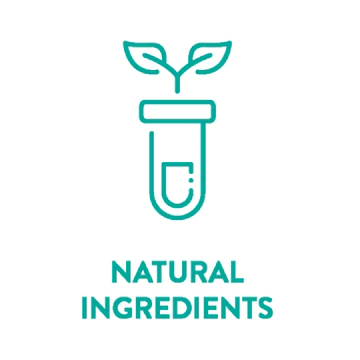
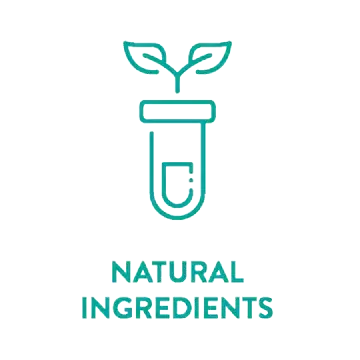
pics optmized

Changed region(s): [[0.3361, 0.0917, 0.6417, 0.6111], [0.2139, 0.825, 0.7639, 0.8861], [0.3056, 0.7028, 0.6722, 0.7944]]

diff --git a/napure-me/src/app/components/pages/about/about.component.html b/napure-me/src/app/components/pages/about/about.component.html
@@ -10,7 +10,7 @@
         <div class="grid-row__half-section">
             <img
                 class="woman-about"
-                src="../../../../assets/images/tanned-woman-without-makeup-posing-among-tropical-plants-with-huge-leaves.jpg"
+                src="../../../../assets/images/woman-with-beautiful-hair.webp"
                 alt="woman in trees representing use of nature ingredients for Napura hair products"
             />
         </div>
@@ -19,19 +19,19 @@
                 <h2 class="about__title heading">we are staninding for:</h2>
                 <div class="standing-images">
                     <img
-                        src="../../../../assets/images/nature-ingridients.png"
+                        src="../../../../assets/images/nature-ingridients.webp"
                         alt="Napura hair care products in Montenegro nature ingredients image"
                     />
                     <img
-                        src="../../../../assets/images/sls.png"
+                        src="../../../../assets/images/sls.webp"
                         alt="Napura hair care products in Montenegro sls free image"
                     />
                     <img
-                        src="../../../../assets/images/quality-certified.png"
+                        src="../../../../assets/images/quality-certified.webp"
                         alt="Napura hair care products in Montenegro quality certified image"
                     />
                     <img
-                        src="../../../../assets/images/made-in-italy-logo.png"
+                        src="../../../../assets/images/made-in-italy-logo.webp"
                         alt="Napura hair care products in Montenegro made in italy image"
                     />
                 </div>
@@ -55,7 +55,7 @@
                         />
                     </div>
                     <img
-                        src="../../../../assets/images/cert_1.png"
+                        src="../../../../assets/images/cert_1.webp"
                         alt="Napura hair care products in Montenegro certificate mini image"
                     />
                 </div>
@@ -70,7 +70,7 @@
                     </div>
 
                     <img
-                        src="../../../../assets/images/cert_2.png"
+                        src="../../../../assets/images/cert_2.webp"
                         alt="Napura hair care products in Montenegro certificate mini image"
                     />
                 </div>
@@ -85,7 +85,7 @@
                     </div>
 
                     <img
-                        src="../../../../assets/images/cert_3.png"
+                        src="../../../../assets/images/cert_3.webp"
                         alt="Napura hair care products in Montenegro certificate mini image"
                     />
                 </div>

diff --git a/napure-me/src/app/app.component.ts b/napure-me/src/app/app.component.ts
@@ -11,11 +11,12 @@ import { BehaviorSubject } from 'rxjs';
 })
 export class AppComponent implements OnInit {
     static isBrowser = new BehaviorSubject<boolean>(false);
-
+    public isServer: boolean = true;
     constructor(
         private translate: TranslateService,
         private meta: Meta,
-        private titleService: Title
+        private titleService: Title,
+        @Inject(PLATFORM_ID) private platformId: Object
     ) {
         translate.setDefaultLang('en');
         translate.addLangs(['en', 'me', 'ru']);
@@ -23,11 +24,20 @@ export class AppComponent implements OnInit {
     }
 
     ngOnInit(): void {
+        if (isPlatformBrowser(this.platformId)) {
+            setTimeout(() => {
+                this.isServer = false;
+            });
+        }
         this.titleService.setTitle('NAPURA - Hair products in Montenegro');
         this.meta.addTag({
             name: 'description',
             content:
                 'Napura already in Montenegro! Napura is a proffesional hair care products company designed and manufactured entirely in Italy with only high-quality materials and traditional craftmanship.',
+        });
+        this.meta.addTag({
+            name: 'robots',
+            content: 'index, follow',
         });
     }
 

diff --git a/napure-me/src/app/components/pages/home/home.component.html b/napure-me/src/app/components/pages/home/home.component.html
@@ -88,7 +88,7 @@
                     <div class="grid-row__half-section">
                         <img
                             class="jumbotron__image"
-                            src="../../../../assets/images/shampoo.png"
+                            src="../../../../assets/images/shampoo.webp"
                             alt="napura hair shampoo Montenegro"
                         />
                         <p class="jumbotron__description" id="jdm">
@@ -98,7 +98,7 @@
                 </div>
                 <img
                     class="liquid-item"
-                    src="../../../../assets/images/liquid-item.png"
+                    src="../../../../assets/images/liquid-item.webp"
                     alt="napura proffesional hair products Montenegro liquid item"
                 />
             </div>

diff --git a/napure-me/src/app/components/pages/about/about.component.scss b/napure-me/src/app/components/pages/about/about.component.scss
@@ -143,7 +143,7 @@
 @media only screen and (max-width: 450px) {
     .about {
         &__description {
-            width: 400px;
+            width: 350px;
             font-size: 15px;
         }
     }
@@ -160,8 +160,9 @@
         .cert-images {
             width: 100%;
             & .cert-cover {
-                width: 100px;
-                height: 100px;
+                width: 90px;
+                height: 90px;
+
                 & > img {
                     height: 60px;
                     margin: 25px auto;

diff --git a/napure-me/src/app/components/common/lang-dialog/lang-dialog.component.scss b/napure-me/src/app/components/common/lang-dialog/lang-dialog.component.scss
@@ -5,6 +5,7 @@
     flex-direction: column;
     justify-content: center;
     align-items: center;
+    padding-bottom: 50px;
 }
 ::ng-deep .mat-dialog-container {
     background-color: $background-grey !important;
@@ -29,4 +30,11 @@ h1 {
     height: 60px;
     background-color: $main-black;
     margin-bottom: 50px;
+}
+
+@media only screen and (max-width: 450px) {
+    h1 {
+        font-size: 13px;
+        margin-top: 24px;
+    }
 }

diff --git a/napure-me/src/app/components/pages/wholesale/wholeslae.component.scss b/napure-me/src/app/components/pages/wholesale/wholeslae.component.scss
@@ -87,6 +87,7 @@
 @media only screen and (max-width: 450px) {
     .wrapper {
         width: 100%;
+        margin-bottom: 50px;
     }
     .form {
         width: 100%;
@@ -98,5 +99,9 @@
             padding: 15px;
             box-sizing: border-box;
         }
+    }
+
+    .footer {
+        font-size: 12px;
     }
 }

diff --git a/napure-me/src/app/components/pages/catalog/product/product.component.html b/napure-me/src/app/components/pages/catalog/product/product.component.html
@@ -1,7 +1,7 @@
 <div class="product">
     <img
         src="{{
-            '../../../../../assets/images/products/' + data.urlName + '.jpg'
+            '../../../../../assets/images/products/' + data.urlName + '.webp'
         }}"
         alt="Napura hair care {{ data.name }}"
         class="product__image"

diff --git a/napure-me/src/app/components/pages/become-a-master/become-a-master.component.scss b/napure-me/src/app/components/pages/become-a-master/become-a-master.component.scss
@@ -34,8 +34,8 @@
         top: 50%;
         left: 50%;
         transform: translate(-50%, -65%);
-        width: 700px;
         height: 250px;
+        padding: 20px;
     }
     &__title {
         margin-bottom: 20px;

diff --git a/napure-me/server.ts b/napure-me/server.ts
@@ -20,6 +20,7 @@ export function app(): express.Express {
         'html',
         ngExpressEngine({
             bootstrap: AppServerModule,
+            inlineCriticalCss: false,
         })
     );
 

diff --git a/napure-me/src/app/app.component.html b/napure-me/src/app/app.component.html
@@ -1,1 +1,3 @@
-<router-outlet></router-outlet>
+<div [style.opacity]="isServer ? 0 : 1">
+    <router-outlet></router-outlet>
+</div>

diff --git a/napure-me/src/app/app.component.scss b/napure-me/src/app/app.component.scss
@@ -1,0 +1,4 @@
+div {
+    transition: 0.3s;
+    height: 100%;
+}
